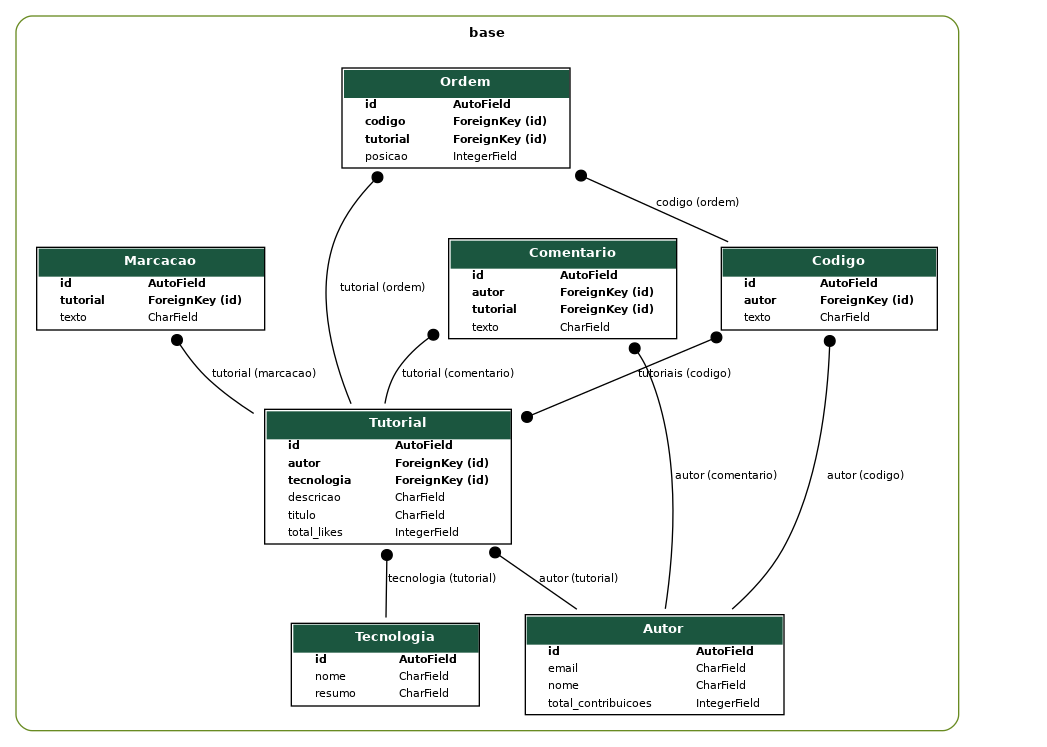
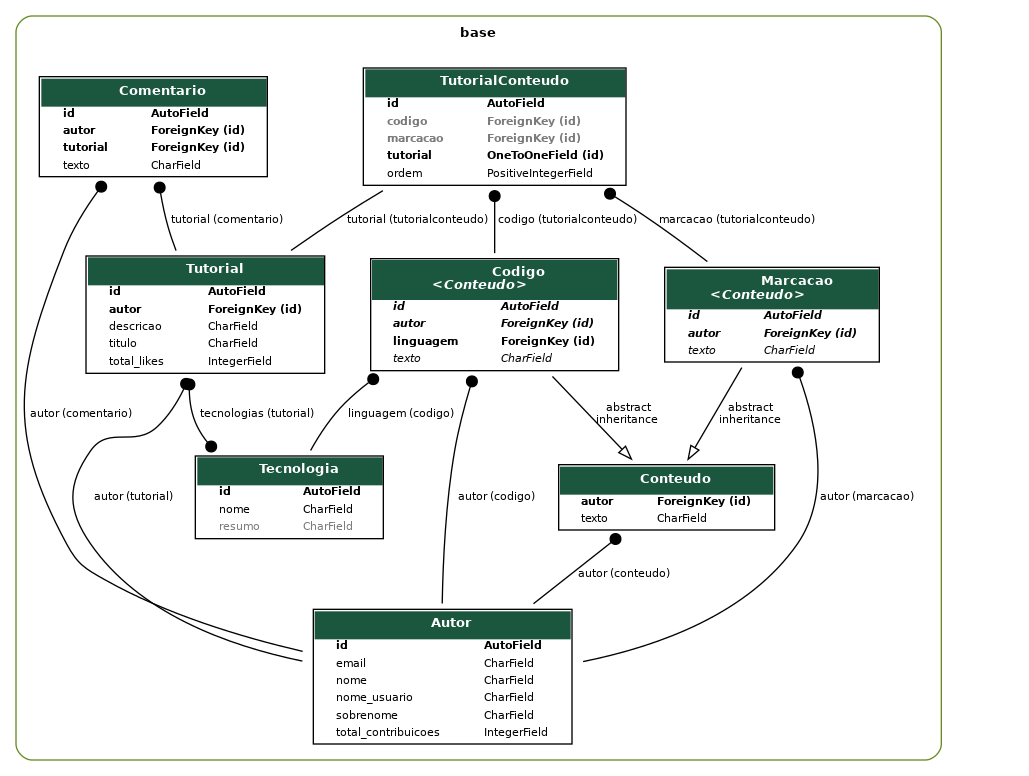
Criação e alteração nos modelos

diff --git a/src/base/models.py b/src/base/models.py
@@ -1,61 +1,74 @@
 from django.db import models
 
 
-class Tecnologia(models.Model):
-  id = models.AutoField(primary_key=True)
-  nome = models.CharField(max_length=20)
-  resumo = models.CharField(max_length=500)
 
-  def __str__(self):
-    return self.nome
+class Tecnologia(models.Model):
+    id = models.AutoField(primary_key=True)
+    nome = models.CharField(max_length=20)
+    resumo = models.CharField(null=True, blank=True, max_length=500)
+
+    def __str__(self):
+        return self.nome
+
 
 class Autor(models.Model):
-  id = models.AutoField(primary_key=True)
-  nome = models.CharField(max_length=20)
-  email = models.CharField(max_length=20)
-  total_contribuicoes = models.IntegerField(default=0)
+    id = models.AutoField(primary_key=True)
+    nome_usuario = models.CharField(unique=True, max_length=50)
+    email = models.CharField(unique=True, max_length=100)
+    nome = models.CharField(max_length=100)
+    sobrenome = models.CharField(max_length=200)
+    total_contribuicoes = models.IntegerField(default=0)
 
-  def __str__(self):
-    return self.nome
+    def __str__(self):
+        return self.nome_usuario + " " + "(" + self.nome + " " + self.sobrenome + ")"
+
 
 class Tutorial(models.Model):
-  id = models.AutoField(primary_key=True)
-  titulo = models.CharField(max_length=20)
-  descricao = models.CharField(max_length=500)
-  tecnologia = models.ForeignKey(Tecnologia, on_delete=models.CASCADE)
-  autor = models.ForeignKey(Autor, on_delete=models.CASCADE)
-  total_likes = models.IntegerField(default=0)
+    id = models.AutoField(primary_key=True)
+    titulo = models.CharField(max_length=100)
+    descricao = models.CharField(max_length=1000)
+    autor = models.ForeignKey(Autor, on_delete=models.CASCADE)
+    total_likes = models.IntegerField(default=0)
+    tecnologias = models.ManyToManyField(Tecnologia)
 
-  def __str__(self):
-    return self.titulo
-
-
-class Marcacao(models.Model):
-  id = models.AutoField(primary_key=True)
-  texto = models.CharField(max_length=10000)
-  tutorial = models.ForeignKey(Tutorial, on_delete=models.CASCADE)
+    def __str__(self):
+        return self.titulo + " (by: " + self.autor.nome_usuario + ")"
 
 
-class Codigo(models.Model):
-  id = models.AutoField(primary_key=True)
-  tutoriais = models.ManyToManyField(Tutorial)
-  texto = models.CharField(max_length=10000)
-  autor = models.ForeignKey(Autor, on_delete=models.CASCADE)
+class Conteudo(models.Model):
+    id = models.AutoField(primary_key=True)
+    texto = models.CharField(max_length=10000)
+    autor = models.ForeignKey(Autor, on_delete=models.CASCADE)
+
+    class Meta:
+        abstract = True
 
 
-class Ordem(models.Model):
-  id = models.AutoField(primary_key=True)
-  posicao = models.IntegerField()
-  codigo = models.ForeignKey(Codigo, on_delete=models.CASCADE)
-  tutorial = models.ForeignKey(Tutorial, on_delete=models.CASCADE)
+class Marcacao(Conteudo):
+    pass
+
+
+class Codigo(Conteudo):
+    linguagem = models.ForeignKey(Tecnologia, on_delete=models.CASCADE)
+
+
+class TutorialConteudo(models.Model):
+    id = models.AutoField(primary_key=True)
+    tutorial = models.OneToOneField(Tutorial, on_delete=models.CASCADE)
+    codigo = models.ForeignKey(Codigo, null=True, blank=True, on_delete=models.CASCADE)
+    marcacao = models.ForeignKey(Marcacao, null=True, blank=True, on_delete=models.CASCADE)
+    ordem = models.PositiveIntegerField()
+
+    class Meta:
+        ordering = ['ordem']
 
 
 class Comentario(models.Model):
-  id = models.AutoField(primary_key=True)
-  texto = models.CharField(max_length=200)
-  autor = models.ForeignKey(Autor, on_delete=models.CASCADE)
-  tutorial = models.ForeignKey(Tutorial, on_delete=models.CASCADE)
+    id = models.AutoField(primary_key=True)
+    texto = models.CharField(max_length=500)
+    autor = models.ForeignKey(Autor, on_delete=models.CASCADE)
+    tutorial = models.ForeignKey(Tutorial, on_delete=models.CASCADE)
 
-  def __str__(self):
-    return f"Comentario de {self.autor.nome}"
+    def __str__(self):
+        return self.autor.nome_usuario + ": " + self.texto
 

diff --git a/src/base/admin.py b/src/base/admin.py
@@ -1,5 +1,5 @@
 from django.contrib import admin
-from .models import Autor,Comentario,Tecnologia,Tutorial, Codigo, Marcacao ,Ordem
+from .models import Autor,Comentario,Tecnologia,Tutorial, Codigo, Marcacao, TutorialConteudo
 
 admin.site.register(Autor)
 admin.site.register(Comentario)
@@ -7,5 +7,5 @@ admin.site.register(Tecnologia)
 admin.site.register(Tutorial)
 admin.site.register(Codigo)
 admin.site.register(Marcacao)
-admin.site.register(Ordem)
+admin.site.register(TutorialConteudo)
 
